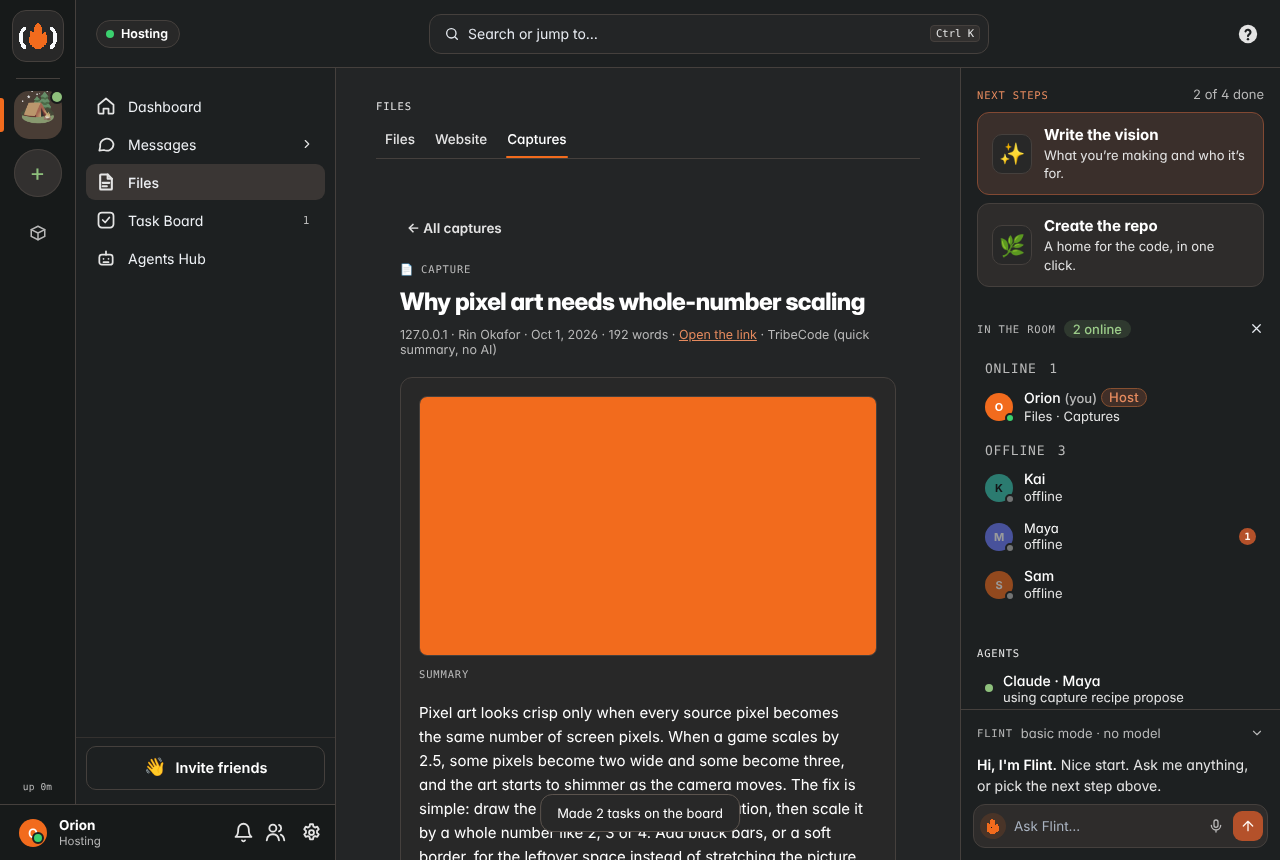
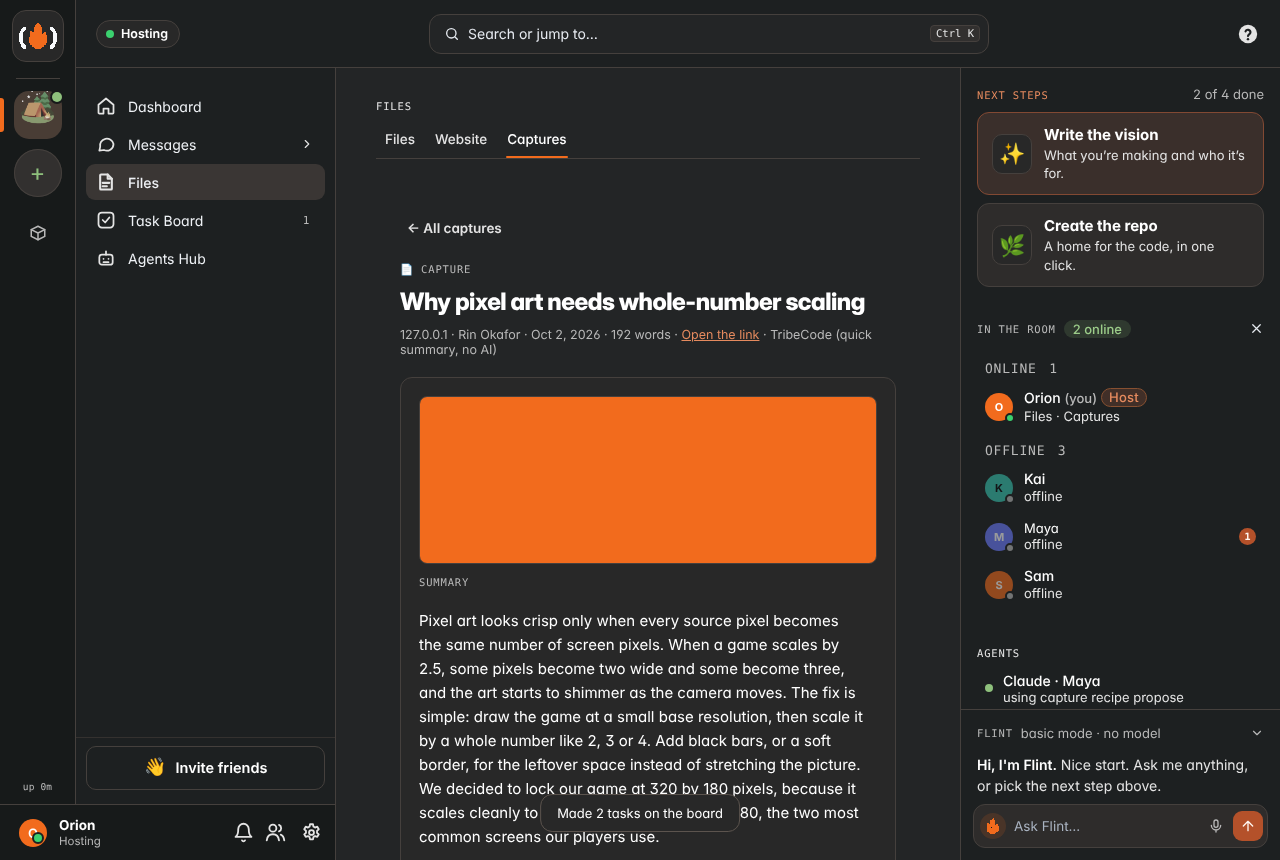
feat/captures: plus-menu items after Note (keeps the + menu order), docs/LINK-READER.md as built, rewrite + huddle unit tests
Claude-Session: https://claude.ai/code/session_01Q3y5f5AEdzfgkZgsBdK9Ys

Changed region(s): [[0.3125, 0.6349, 0.6875, 1.0], [0.4375, 0.3628, 0.6875, 0.393]]

diff --git a/app/test/captures_test.js b/app/test/captures_test.js
@@ -121,6 +121,16 @@ ok(avg('actionRecall') >= 0.6, 'average action recall ' + avg('actionRecall'));
   ok(c.decisions.some(d => /two phases/.test(d.text)) && c.actions.some(a => /^Sam: tune the boss health/.test(a.text)), 'huddle notes: decisions + actions');
   ok(fs.existsSync(st.p('files', 'captures', c.id + '.md')) && fs.existsSync(st.p('files', 'captures', c.id + '.json')), 'huddle capture files');
   ok(sent.some(m => m.type === 'capture' && m.id === c.id), 'broadcast');
-  fs.rmSync(dir, { recursive: true, force: true });
+  // the plain-words rewrite (server/llm.js): a strict prompt, a strict format, the transcript stays the source
+  let asked = null;
+  const cap2 = CAP({ P, store: st, base: st, embeds: {}, packs: {}, docs: { list: () => [], read: () => null }, dms: { isDm: () => false, canRead: () => true }, perms: {}, postChat: () => null, broadcast: () => {}, createTask: () => ({}), getMembers: () => [{ id: 'maya-1', name: 'Maya', role: 'builder' }], nameOf: () => '',
+    llm: { generate: async (prompt, o) => { asked = { prompt, o }; return '<think>x</think>SUMMARY: The boss gets two phases. Sam tunes health.\nPOINTS:\n- Two phases, not three\n- Health down 20%\nACTIONS:\n- Sam: tune the boss health'; }, status: () => ({ via: 'qwen3 on the host' }) } });
+  const before = JSON.stringify(c.transcript);
+  return cap2.rewrite(c).then(out => {
+    ok(/Only use facts from the text/.test(asked.o.system) && /No hype|no hype|Never add facts/.test(asked.o.system + asked.prompt) && asked.prompt.includes('[00:04] Maya: We decided'), 'strict plain-words prompt with timestamps');
+    ok(out.summary === 'The boss gets two phases. Sam tunes health.' && out.points.length === 2 && out.actions[0].owner === 'Sam' && out.via === 'qwen3 on the host', 'model answer parsed');
+    ok(JSON.stringify(out.transcript) === before, 'the transcript stays the source');
+    const bad = CAP({ P, store: st, base: st, embeds: {}, packs: {}, docs: { list: () => [] }, dms: {}, perms: {}, postChat: () => null, broadcast: () => {}, createTask: () => ({}), getMembers: () => [], nameOf: () => '', llm: { generate: async () => 'I think it was great!!' } });
+    return bad.rewrite(JSON.parse(JSON.stringify(c))).then(() => ok(false, 'a wrong format is refused'), e => ok(e.status === 502, 'a wrong format is refused: ' + e.message));
+  }).then(() => { fs.rmSync(dir, { recursive: true, force: true }); console.log(`captures_test: OK (${n} checks)`); });
 }
-console.log(`captures_test: OK (${n} checks)`);

diff --git a/app/ui/plusmenu.js b/app/ui/plusmenu.js
@@ -23,8 +23,6 @@
   const ITEMS = () => [
     { group: 'Add' },
     { k: 'attach', icon: 'i-clip', t: 'Photo or file', s: 'Photos and files go in the chat, notes go to Docs' },
-    { k: 'capture', icon: 'i-link', t: 'Read a link', s: draft() && /^https?:\/\//.test(draft()) ? 'Summarize the link you typed' : 'Short notes from an article or video', hide: !window.TribeCaptures || me().role === 'spectator' },   // feat/captures
-    { k: 'voicenote', icon: 'i-mic', t: 'Voice note to notes', s: 'Record, get a summary and action items', hide: !window.TribeCaptures || me().role === 'spectator' },   // feat/captures
     { k: 'gif', icon: 'i-gif', t: 'GIF', s: 'Search, your GIFs, or paste a link', hide: !window.TribeChatRich || me().role === 'spectator' },   // feat/chat2
     { group: 'Decide together' },
     { k: 'propose', icon: 'i-flag', t: 'Propose to the tribe', s: 'Everyone votes; approved ideas go to the Board', hide: me().role === 'spectator' },
@@ -36,6 +34,8 @@
       : { k: 'ai', icon: 'i-sparkle', t: 'Ask AI', s: draft() ? `“${draft().slice(0, 40)}”` : 'The tribe\'s AI answers here, no Claude of your own needed', hide: inDm() || me().role === 'spectator' },
     { k: 'remind', icon: 'i-sun', t: 'Reminder or event', s: 'Like “playtest friday 7pm”', hide: !window.TribePlan },
     { k: 'note', icon: 'i-doc', t: 'Note', s: 'Into the living notes' },
+    { k: 'capture', icon: 'i-link', t: 'Read a link', s: draft() && /^https?:\/\//.test(draft()) ? 'Summarize the link you typed' : 'Short notes from an article or video', hide: !window.TribeCaptures || me().role === 'spectator' },   // feat/captures
+    { k: 'voicenote', icon: 'i-mic', t: 'Voice note to notes', s: 'Record, get a summary and action items', hide: !window.TribeCaptures || me().role === 'spectator' },   // feat/captures
     { k: 'bug', icon: 'i-bug', t: 'Report a bug', s: 'With the recent logs attached', hide: !window.TribeBugs },
   ].filter(x => !x.hide);
 

diff --git a/server/captures.js b/server/captures.js
@@ -296,7 +296,7 @@ module.exports = function captures({ P, store, base, embeds, packs, llm, docs, d
           else if (!OE_TEST) { try { await readPage(c, url); } catch {} c.kind = plat.kind; c.text = ''; }   // page metadata through the safe fetcher; a video page's HTML is not an article
           c.status = 'metadata';
           c.note = settings().videoTools && packs.ytdlp() && YTDLP_HOSTS.includes(plat.id) ? 'Getting the captions…' : `Only the title and picture are public. ${packs.ytdlp() ? 'The host can turn on video captions in Captures.' : 'Paste the transcript, or the host can add the optional captions tool.'}`;
-          if (c.text) c.status = 'ready';
+          if (c.text) { c.status = 'ready'; if (!/Getting the captions/.test(c.note)) c.note = ''; }
         } else await readPage(c, url);
       } catch (e) {
         c.status = 'error'; c.note = say(e); c.title = c.title || url; c.blocked = !!e.blocked;
@@ -698,7 +698,7 @@ module.exports = function captures({ P, store, base, embeds, packs, llm, docs, d
     };
   }
 
-  return { route, onChat, fromHuddle, mcpTools: mcpTools(), captureLink, search, ask, read, list: listAll, parseVtt, parseWhisperJson, normUrl, platformOf };
+  return { route, onChat, fromHuddle, rewrite, mcpTools: mcpTools(), captureLink, search, ask, read, list: listAll, parseVtt, parseWhisperJson, normUrl, platformOf };
 };
 module.exports.parseVtt = parseVtt;
 module.exports.parseWhisperJson = parseWhisperJson;

diff --git a/docs/LINK-READER.md b/docs/LINK-READER.md
@@ -1,6 +1,6 @@
 # Link reader, voice notes and summaries (plan)
 
-Status: planned, not built. Written 2026-11-08.
+Status: built on `feat/captures` (all four phases), 2026-11-08. See **As built** at the end.
 
 Goal: drop any link (TikTok, Instagram, YouTube, a web page) or record a voice note, and TribeCode turns it into **data the tribe can use**: a clean transcript or article, a short summary, key points, action items and tags, saved in Files and readable by Flint and every agent. It should feel like Notion's AI meeting notes: record or paste, get tidy notes back, edit them.
 
@@ -100,3 +100,36 @@ Each layer keeps the transcript as the source of truth; summaries link back to t
 - yt-dlp subtitles: https://wiki.gentoo.org/wiki/Yt-dlp
 - Mozilla Readability (Apache-2.0): https://openapps.pro/packages/mozilla-readability
 - whisper.cpp licensing (MIT/Expat): https://dfsg-new-queue.debian.org/reviews/whisper.cpp
+
+## As built (feat/captures)
+
+- **Server:** `server/captures.js` (routes `/api/captures…`, chat cards, auto-read of a pasted link, voice notes, huddle
+  notes, search, "what did we decide", MCP tools), `server/capture-html.js` (our own small HTML parser and
+  Readability-style article finder, charset detection; no third-party code), `server/capture-sum.js` (the
+  deterministic summarizer, keep/discard learning, the evaluation scorer), `server/capture-recipes.js` (built-in
+  recipes: Article, Video, Voice note, Meeting, Idea, Playtest feedback, Interview, Lecture), `server/packs.js` (the
+  download manager, Settings › Packs). The built-in recipes live in JS because the desktop server is bundled into one
+  file; a tribe's own recipes are JSON files in `.tribe/recipes/` (agent proposals wait in `.tribe/recipes/pending/`).
+- **Files:** `files/captures/<date>-<slug>.md` + `.json` in the project folder; thumbnails in `files/captures/thumbs/`
+  (PNG/JPEG/GIF/WebP/AVIF only, magic bytes checked), voice audio in `files/captures/audio/`. Learned weights in
+  `.tribe/captures-weights.json` (reset in Captures › Capture settings), settings in `.tribe/captures-settings.json`.
+- **Fetching:** every page, oEmbed answer and thumbnail goes through `server/embeds.js` `safeGet` (SSRF checks, DNS
+  pinning, redirect re-checks; captures use a 3 MB truncating cap and a 9 s timeout, with two retries and backoff for
+  timeouts and 5xx). `noarchive`/`noai` robots rules and `isAccessibleForFree: false` keep only the title and
+  description; 401/402/403 keep only the link. Same URL per project (tracking params stripped) is deduped. Per-member
+  limit: 30 new captures per 5 minutes (agents 12).
+- **oEmbed endpoints:** YouTube `youtube.com/oembed`, TikTok `tiktok.com/oembed`, Instagram
+  `graph.facebook.com/v25.0/instagram_oembed`, Facebook `graph.facebook.com/v26.0/oembed_post` / `oembed_video`,
+  Threads `graph.threads.net/v1.0/oembed` (Meta's are tokenless for public content since June 2026, 1,000 calls per
+  hour per endpoint). Meta returns embed HTML only: we read its text, never render it.
+- **Packs:** yt-dlp 2026.10.21 (sha256 from its SHA2-256SUMS) and whisper.cpp models from Hugging Face (sha256 = LFS
+  object id). The whisper.cpp program itself is found on PATH or in `.tribe/packs/<pack>/bin/` (people install it their
+  own way). ffmpeg, when on PATH, converts audio to 16 kHz WAV and splits it into 10-minute chunks. Not yet: resumable
+  downloads (HTTP Range), a disk budget.
+- **Privacy and permissions:** DM captures (links and voice notes) are visible only to that DM's members, including
+  search, Flint and MCP. Spectators read only. Agents can capture, read and search, and propose recipes; only people
+  make tasks and approve recipes. Video captions are host-only and off by default.
+- **Tests:** `node app/test/captures_test.js` (extractor, charsets, the summarizer against `app/test/fixtures/captures/`,
+  learning, parsers, huddle notes, the rewrite format) and `python3 app/test/e2e_captures.py` (a local fake site, fake
+  oEmbed, mock yt-dlp and whisper packs). Test-only switches, honored only with `TRIBE_TEST=1`:
+  `TRIBE_TEST_OEMBED`, `TRIBE_TEST_PACKS_INDEX`, `TRIBE_TEST_PACKS_ALLOW`, `TRIBE_TEST_NO_PATH`.
